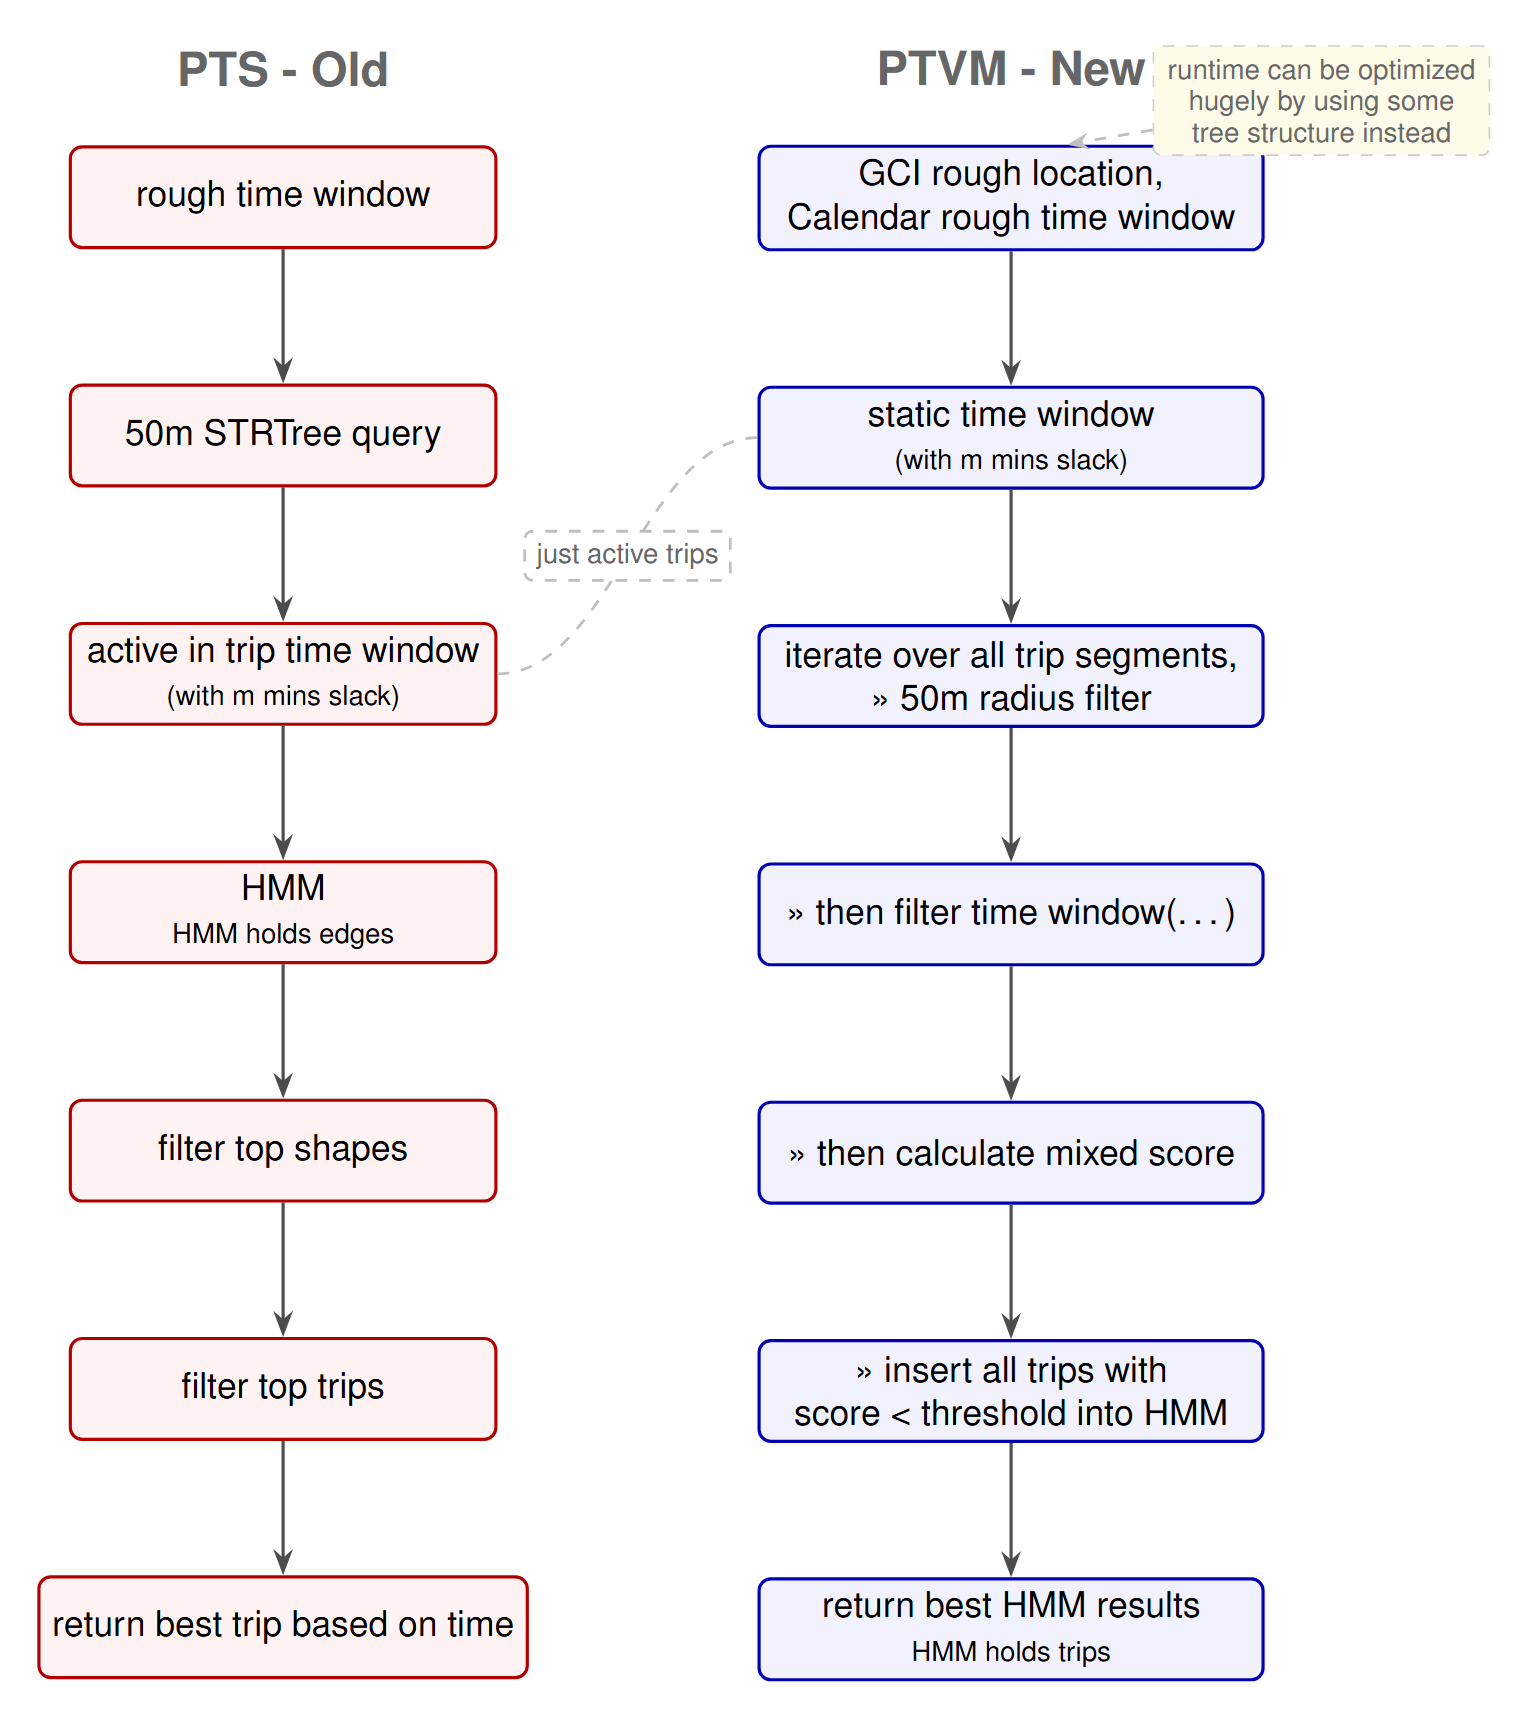
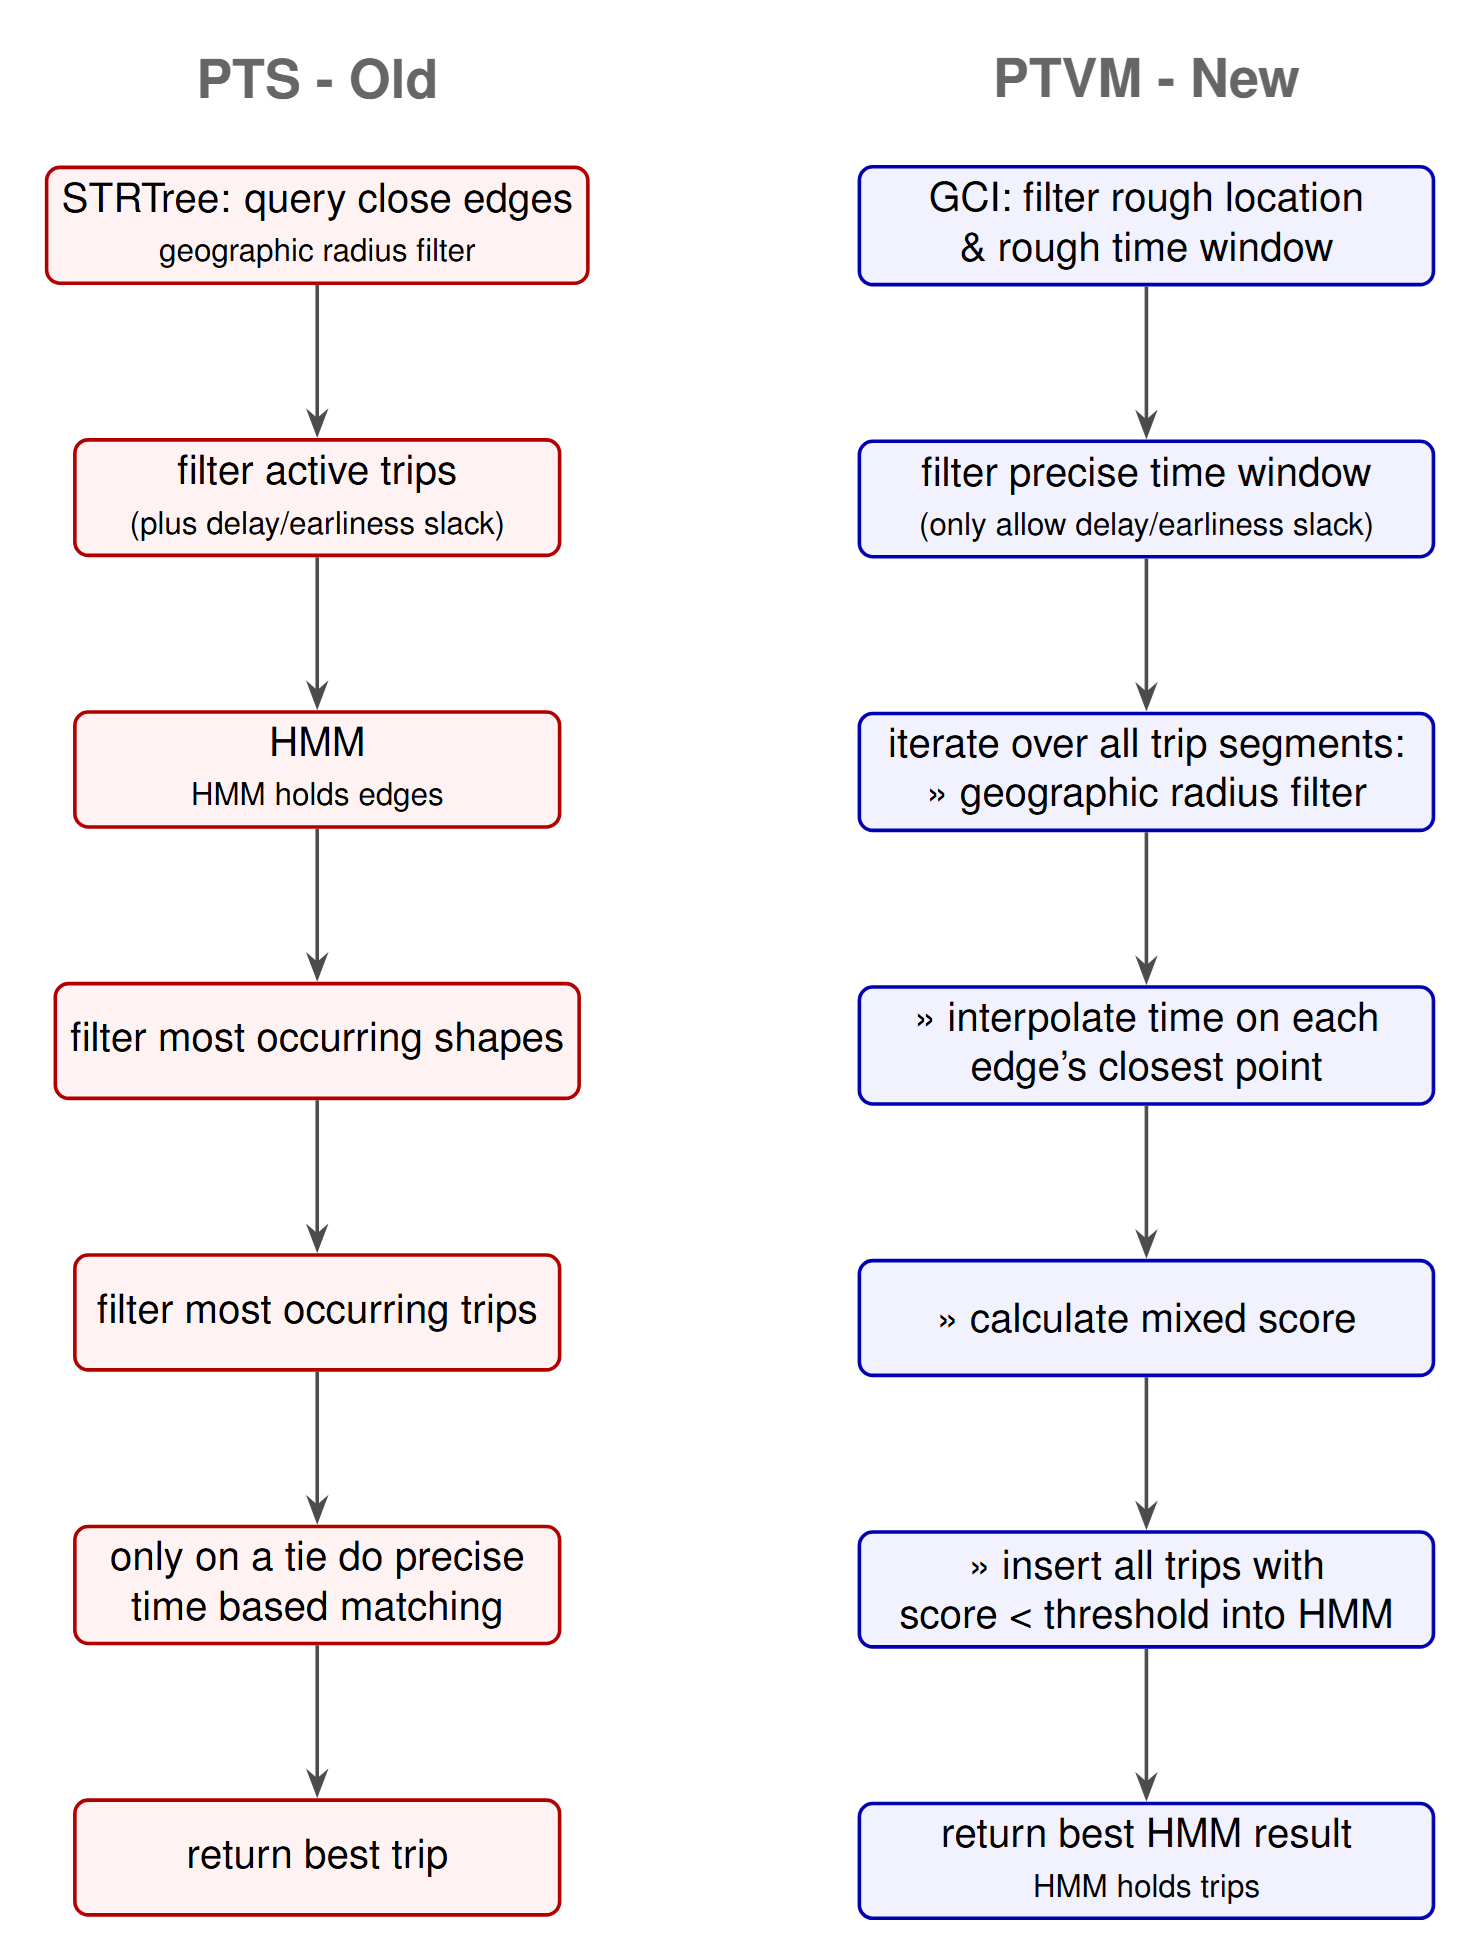
update query comparison img

diff --git a/content/post/project-better-map-matching-mobile-phones-to-public-transit-vehicles/index.md b/content/post/project-better-map-matching-mobile-phones-to-public-transit-vehicles/index.md
@@ -16,13 +16,13 @@ In this blog post, we compare two dynamic map matching algorithms for matching a
 
 - [Content](#content)
 - [Introduction](#introduction)
-- [Backend](#backend)
-  - [Introduction to GTFS and related Terms](#introduction-to-gtfs-and-related-terms)
-    - [Trip Segments](#trip-segments)
-    - [Active Trips](#active-trips)
+- [Background](#background)
+  - [Introduction to GTFS](#introduction-to-gtfs)
+  - [Trip Segments](#trip-segments)
+  - [Active Trips](#active-trips)
   - [Map Matching to a Dynamic Map](#map-matching-to-a-dynamic-map)
     - [Hidden Markov Models](#hidden-markov-models)
-    - [What is a Candidate? Old vs New Approach](#what-is-a-candidate-old-vs-new-approach)
+    - [What is a Candidate?](#what-is-a-candidate)
     - [Public Transit Snapper (PTS)](#public-transit-snapper-pts)
     - [Public Transit Vehicle Matcher (PTVM)](#public-transit-vehicle-matcher-ptvm)
     - [PTVM HMM](#ptvm-hmm)
@@ -48,9 +48,11 @@ We present an algorithm to deduce the public transit vehicle (PTV) a mobile phon
 
 This project aims to improve on Robin Wu's and my previous work [1-3], by improving accuracy and speed. We therefore re-design our previous spatio-temporal map-matching algorithm conceptually. We further improve query speed by implementing the reworked backend in C++.
 
-# Backend
+TODO Motivation
 
-## Introduction to GTFS and related Terms
+# Background
+
+## Introduction to GTFS
 
 The General Transit Feed Specification ([GTFS](https://developers.google.com/transit/gtfs)) lets PTV agencies describe the following static schedule properties:
 
@@ -66,11 +68,15 @@ GTFS also gives us arrival and departure times for every stop on a trip.
 **Service information**\
 Every trip operates based on a service, which describes whether the trip is active on a given weekday. There can also be exceptions for specific dates, e.g. holidays.
 
-### Trip Segments
+## Trip Segments
 
 We can subdivide a trip into k segments, where each segment describes the part of the trip between two stops. [img?]
 
-### Active Trips
+## Close Trips
+
+A trip or a trip segment is considered as close (to a point \\(p\\)) if any of the edges of the trip's/trip segment's shape pass trough a radius of \\(p\\).
+
+## Active Trips
 
 We consider a trip as active during time point \\(t\\), if \\(\texttt{trip\_start} < t < \texttt{trip\_end}\\) for \\(\texttt{trip\_start}, \texttt{trip\_end} \in \texttt{stop_times}(\texttt{trip})\\).
 
@@ -86,9 +92,9 @@ A typical use of MM is a navigation systen, where the gps points of a car get ma
 In Dynamic Map Matching (DMM), instead of matching to a static map, we match to moving targets on an underlying static graph. In our case, the GTFS shapes can be represented as a directed graph \\(G_\texttt{network}\\).
 In this graph, each GPS point of a shape is represented as a node and successive points in a shape are connected with a directed edge.
 
-Mobile devices emit **Events** \\(ev = (\texttt{lat}, \texttt{lon}, \texttt{time})\\), where we abbreviate timestamp with **time**.
+### Events
 
-The aim of our dynamic map matching algorithms \\(F_\texttt{DMM}\\) is to match a list of Events \\(EV = [ev_0, ..., ev_{n-1}]\\) to both spatial and temporal dimensions, such that the most likely trip \\(t_\texttt{best}\\) is returned: \\(F_\texttt{DMM}(EV) = t_\texttt{best}\\)
+Mobile devices emit Events \\(ev = (\texttt{lat}, \texttt{lon}, \texttt{time})\\), containing the geographical location and the current time.
 
 ### Hidden Markov Models
 
@@ -97,17 +103,25 @@ A HMM is used when a process can likely be modeled by a Markov chain (The probab
 
 In both approaches PTS and PTVM, we get **HMM candidates** \\(c_j \in C_\texttt{PTS}\\) for each event \\(ev_i\\). With these, we create HMM graph \\(G_\texttt{HMM}\\), which consists of \\(|EV|\\) layers. We find the shortest path through the network
 
-### What is a Candidate? Old vs New Approach
+While the candidates in the old PTS approach are a filtered set of edges from GTFS shapes network graph \\(G_{network}\\), the new PTVM approach uses a set of filtered trips as candidates. In the following chapter, we explain the differences between PTS and PTVM in more detail.
 
-While the candidates in the old PTS approach are a filtered set of edges from GTFS shapes network graph \\(G_{network}\\), the new PTVM approach uses a set of filtered trips as candidates.
+# PTS vs PTVM: Differences in the queries
 
-### Public Transit Snapper (PTS)
+The aim of our dynamic map matching algorithms is to match a list of Events \\(EV = [ev_0, ..., ev_{n-1}]\\) to both spatial and temporal dimensions, such that the most likely trip \\(t_\texttt{best}\\) is returned.
+
+<div id="fig-pts-ptvm-overview"></div>
+
+In this chapter, we go through the query process of both PTS and PTVM, to highlight the differences in the queries. See [Figure ???]() for an overview.
+
+{{< figure id="fig-pts-ptvm-overview" src="img/PTS_vs_PTVM_approaches.png" alt="PTS vs PTVM approaches" width="800" caption="> Figure ??? presents an overview over the pipeline differences on a trip matching query for PTS and PTVM." >}}
+
+## Public Transit Snapper (PTS)
 
 On an incoming event from a user request, the older approach PTS starts by querying an R-Tree for close edges to the event location. PTS then filters roughly by time, so we just consider edges that are generally active during the event time. In this context, active means that the edge is used by a trip that is actively moving anywhere on its shape at the event time.
 
 <div id="fig-g_network"></div>
 
-Now, PTS adds these edges to a HMM. In PTS, HMM-candidates are edges. All edges that are close to the event locations [(see Figure 1)](#fig-g_network) are candidates in \\(G_\texttt{HMM}\\) [(see Figure 2)](#fig-g_hmm).
+Now, PTS adds these edges to a HMM. In PTS, HMM-candidates are edges. All edges that are close to the event locations [(see Figure 1)](#fig-g_network) are candidates in \\(G_\texttt{HMM}\\) (see [Figure 2](#fig-g_hmm)).
 
 {{< figure id="fig-g_network" src="img/PTS_G_network.png" alt="G_network" width="800" caption="> Figure 1: \\(G_{\text{network}}\\) contains all edges. The two colored points are events (timestamped locations) emitted by a user. In this example, all edges are close to an event, meaning they are within the event radius." >}}
 
@@ -118,7 +132,7 @@ Now, PTS adds these edges to a HMM. In PTS, HMM-candidates are edges. All edges 
 We then find the shortest path through \\(G_\texttt{HMM}\\), which gives a set of shortest path edges \\(E_\texttt{sp}\\). After this step, we take the GTFS shape that is most common along all \\(e \in E_\texttt{sp}\\). From this shape, we choose an active trip with the mose occurences on the edges of \\(E_\texttt{sp}\\). If there is a tie, only then do we do a more precise time based matching.
 Generally, this old approach tries find a good spatial solution first, and only afterwards checks whether it is temporally valid.
 
-### Public Transit Vehicle Matcher (PTVM)
+## Public Transit Vehicle Matcher (PTVM)
 
 In the new approach PTVM, both spatial and temporal dimensions are taken into consideration simultaneously. The weight of the dimensions can be tuned with a parameter \\(\psi\\). In the PTVM-approach, HMM-candidates are trips, not edges as in PTS.
 
@@ -184,9 +198,9 @@ The transition score can be expressed [in the following way](#eq-transition), fo
 \end{cases}\\\\[1em]
 \end{align}
 
-### PTVM Preprocessing and Implementation
+# Preprocessing and Implementation Details of PTVM
 
-In this section, we discuss the implementation side of PTVM.
+In this chapter, we discuss the preprocessing of GTFS data and further implementation details of PTVM.
 
 PTVM essentially consists of 4 parts:
 
@@ -195,7 +209,7 @@ PTVM essentially consists of 4 parts:
 3. A HMM that predicts the most likely trip candidate
 4. An API to communicate with the frontend or a user simulation
 
-#### GTFS Reader
+## GTFS Reader
 
 The GTFS Reader reads GTFS files and writes it into datastructures.
 
@@ -207,36 +221,43 @@ We break down the GTFS shapes into edges. As many shapes partially follow the sa
 
 The GTFS Reader calculates TripSegments ([see Table 1](#table-struct-members)), which is a spatial component of a trip.
 
-<div id="table-struct-members"></div>
+Generally, we generate structs (e.g. Edge, Trip, TripSegment), accumulate all of them in an \\(\texttt{std::vector}\\) (e.g. Edges, Trips, TripSegments) and link to them with an index (e.g. EdgeId, TripId, TripSegmentId). For smaller GTFS data like the information from routes.txt, we just store a map mapping from the original route_id to what we need for the query.
 
-Generally, we generate structs (e.g. Edge, Trip, TripSegment), accumulate all of them in a vector (e.g. Edges, Trips, TripSegments) and link to them with an index (e.g. EdgeId, TripId, TripSegmentId).
+<div id="table-struct-members"></div>
 
 In the following table, we explain choices for some datastructures we had to make in order to optimize the RAM/Query-Speed tradeoff.
 
   | Name | Struct members or Type | Explanation |
   | --- | --- | --- |
   | Edge | float lat1, float lon1,<br>float lat2, float lon2,<br>float len_m | Edge lengths have to be calculated<br>multiple times during query time. |
-  | Edges | vector\<Edge\> | Lists all edges. |
+  | Edges | std::vector\<Edge\> | Lists all edges. |
   | EdgeId | uint32_t | Links to Edges. There are 12,526,535<br>unique edges in GermanyGTFS,<br>2^32 = 4_294_967_296 suffices |
-  | Trip | string route_id,<br>string service_id,<br>string shape_id,<br>vector\<TripSegmentId\> ts_ids | We use the original GTFS strings for easier debugging.<br>They do not take up a relevantamount of space.<br>Links to its edgesusing the trip segments. |
-  | Trips | vector\<Trip\> | Lists all trips. |
+  | Trip | std::string route_id,<br>std::string service_id,<br>std::string shape_id,<br>std::vector\<TripSegmentId\> ts_ids | We use the original GTFS strings for easier debugging.<br>They do not take up a relevantamount of space.<br>Links to its edgesusing the trip segments. |
+  | Trips | std::vector\<Trip\> | Lists all trips. |
   | TripId | uint32_t | Links to Trips. As a precaution,<br>covers more than 2^16 = 65,536 trips |
   | RelTripSegmentIdx | uint16_t | Specifies the position of a TripSegment within a Trip |
-  | TripSegment | vector\<EdgeId\>,<br>RelTsIdx idx,<br>float len_m | References the edges of the TS,<br>the position where it is in the trip,<br>and the accumulated edge length |
+  | TripSegment | std::vector\<EdgeId\>,<br>RelTsIdx idx,<br>float len_m | References the edges of the TS,<br>the position where it is in the trip,<br>and the accumulated edge length |
   | TripSegmentId | uint32_t | There are usually more trip segments than trips,<br>2^32 = 4_294_967_296 suffices even for<br>the GermanyGTFS dataset |
+  | Route | std::string agency_id,<br>std::string route_short_name,<br>uint8_t route_type,<br>uint32_t route_color,<br>uint32_t route_text_color | Contains the information from routes.txt |
+  | RoutesMap | std::map\<std::string, Route\> | For easier debugging and implementation speed,<br>we resort to a std::map and choose not to have a<br>separate RouteId. This can be optimized in the future. |
 
-<div id="table-ram-datastructures"></div>
+## Geocalendar Index (GCI)
 
-It is very hard to give an accurate measure on how much ram each datastructure takes up, as this varies from machine to machine, but we can give rough estimates for different datasets in [Table 2](#table-ram-datastructures).
+A GCI can be queried for a trip candidate that is both spatially and temporally close to a given Event. Its purpose is reduce the amout of HMM trip candidates to check from the potentially large GTFS dataset.
 
-| RAM USAGE in MB | Freiburg-Short | DE-Fern | DE-Regio | DE-Nah | DE-full | Switzerland |
-| --- | --- | --- | --- | --- | --- | --- |
-| Shapes | --- | --- | --- | --- | --- | --- |
-| Edges | TBD | 0.55 | 1.91 | 19.63 | 20.27 | --- |
-| Routes | --- | --- | --- | --- | --- | --- |
-| Stops | --- | --- | --- | --- | --- | --- |
+For the spatial part of the GCI, we implement a grid with a fixed width and height for each cell (e.g. 5 kilometers). Each cell contains a \\(\texttt{std::vector}\\) of \\(\texttt{std::set\<TripId\>}\\) for every trip passing the cell geographically.
 
-We are sure that RAM usage can be optimized further without affecting the performance, but as the improvement over PTS is already enormous, we did not see the necessity to spend more time on that.
+We choose a grid for the sake of implementation speed, even though a tree-like structure (e.g. an R-Tree, see PTS) would likely speed up the PTVM query process a lot, as it would reduce the amount of trips to check at the very beginning of the query pipeline [see pipeline img TODO](). However, as we will see in the [evaluation section](#evaluation), the proof of concept stands and PTVM drastically outperfomrs PTS in query speed already.
+
+As for the temporal part of the GCI, we chose a \\(\texttt{std::vector}\\) of time slots \\(\texttt{std::set\<TripTime\>}\\) of equal size (e.g. 24 hours), where each time slot contains all trips that are at least partially active within the time slot. We store \\(\texttt{TripTime}\\)s instead of \\(\texttt{TripId}\\)s, in order to allow for trips that have a duration longer than the length of the time slots. For example, for a slot size of 24h and a daily operating TripId \\(1\\) with a trip duration of 30 hours, a time slot would hold \\(\\{(1, 2026.01.01), (1, 2026.01.02)\\}\\).
+
+<div id="eq-gci"></div>
+
+In a prior version of the GCI, we tried merging the spatial and temporal components in one vector [as in Equation ???](#eq-gci):
+
+\begin{equation}
+\underbrace{\texttt{std::vector}}\_{\text{grid idx}} \texttt{<}\underbrace{\texttt{std::vector}}\_{\text{calendar idx}} \texttt{<}\underbrace{\texttt{std::set\<TripTime\>}}_{\text{spat. \& temp. relevant}} \texttt{>}\texttt{>}
+\end{equation}
 
 # Evaluation
 